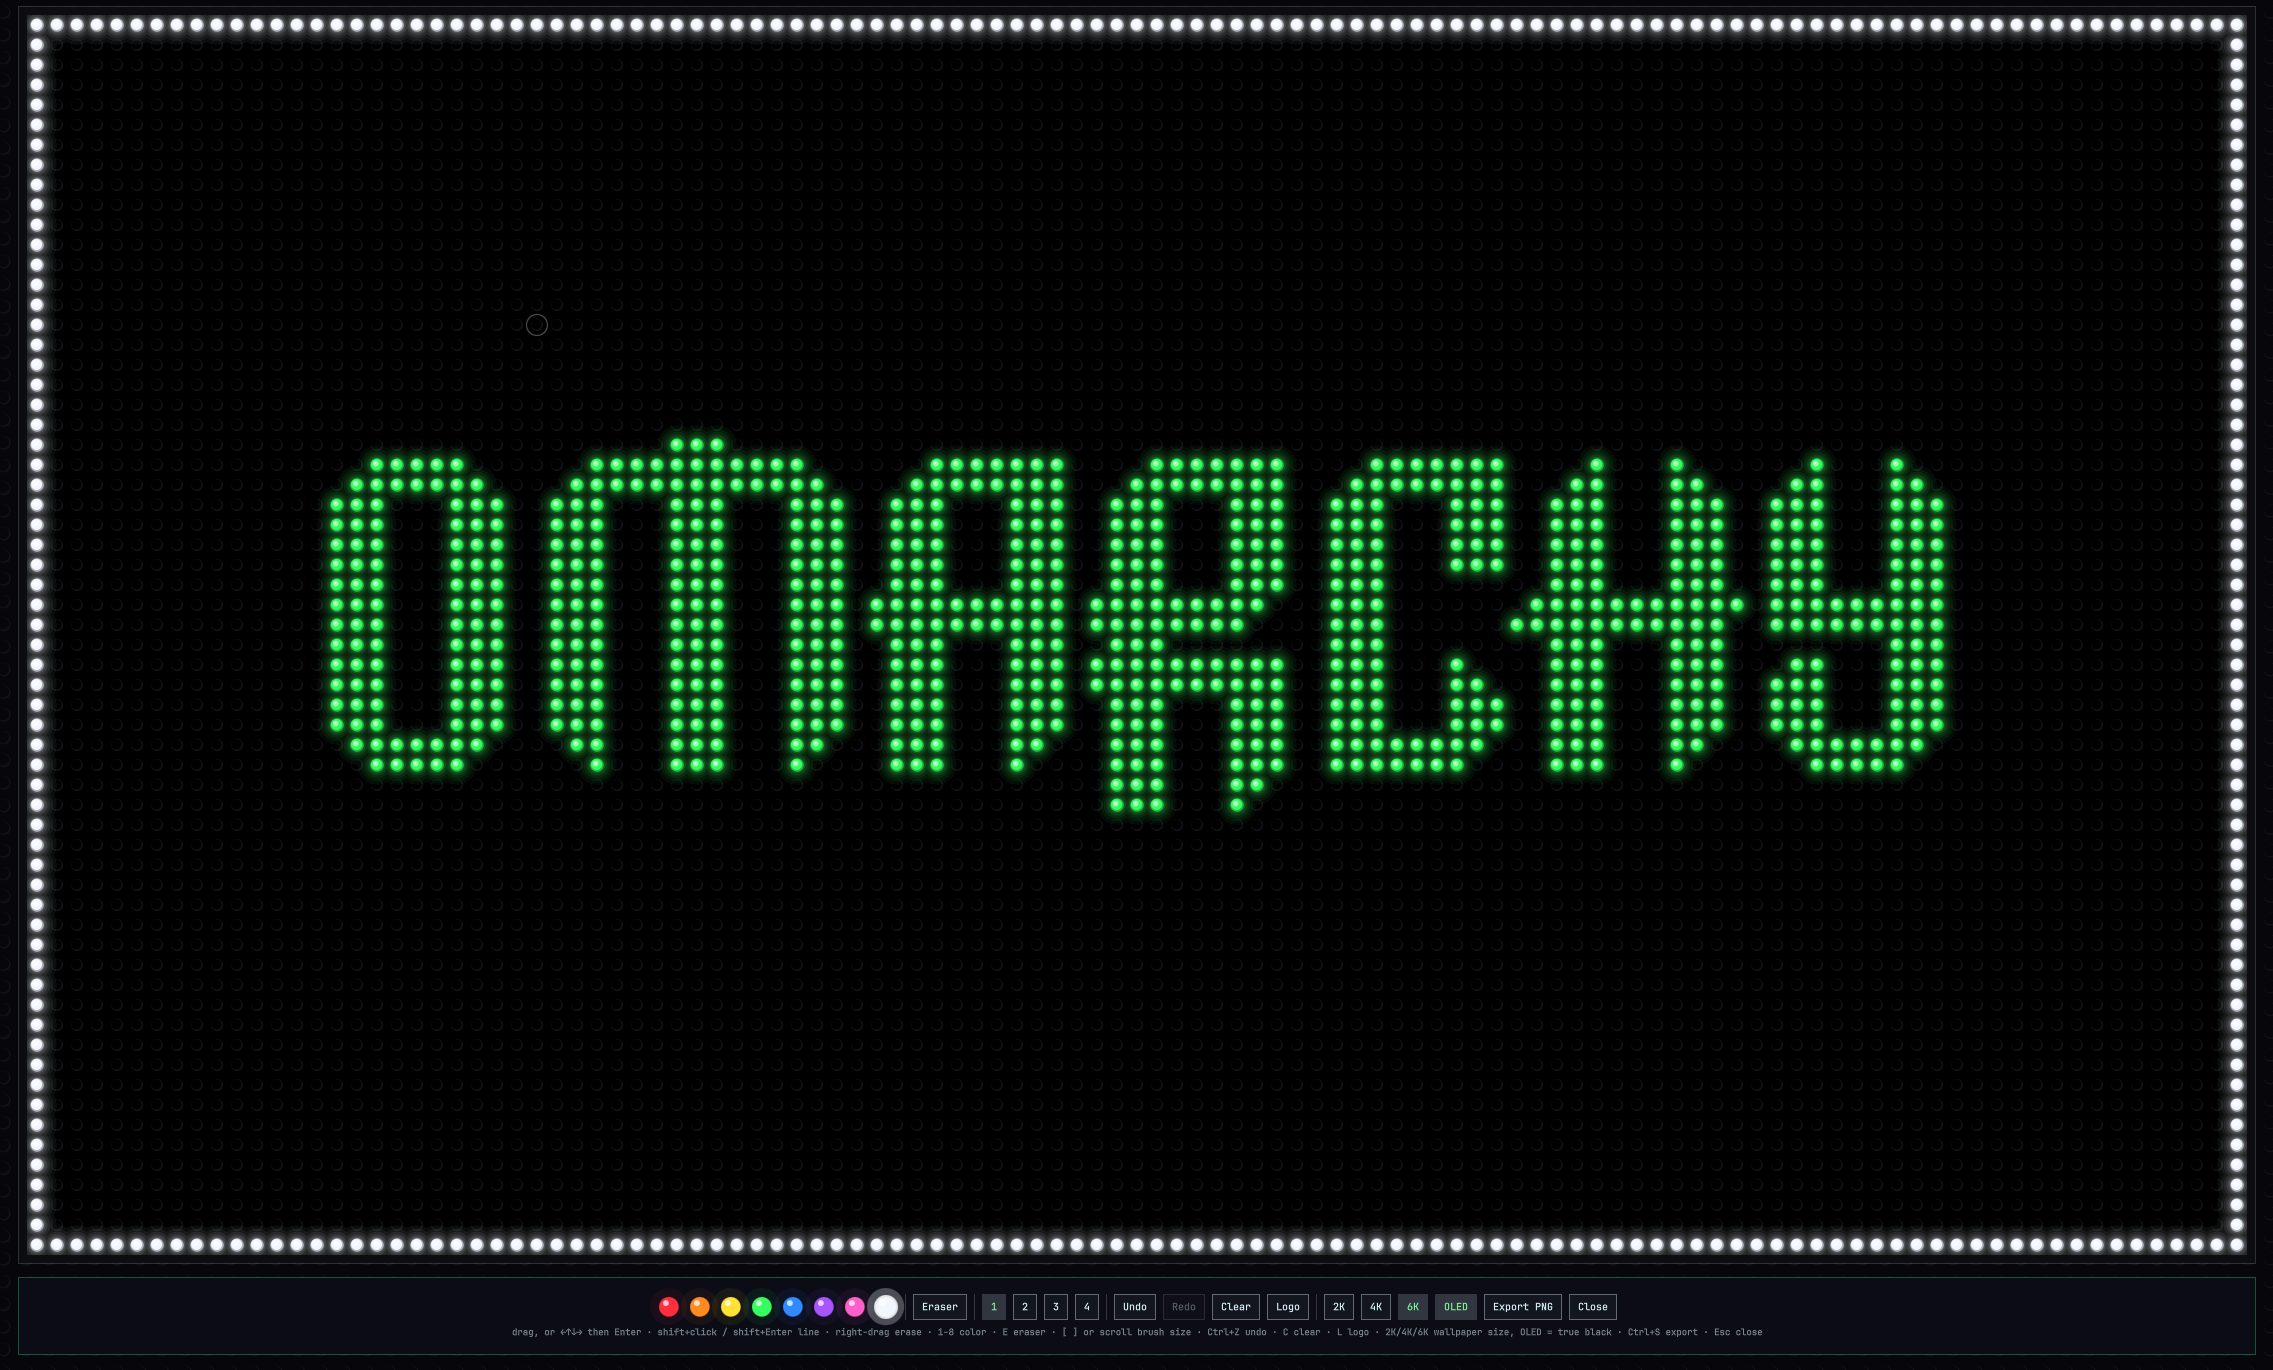
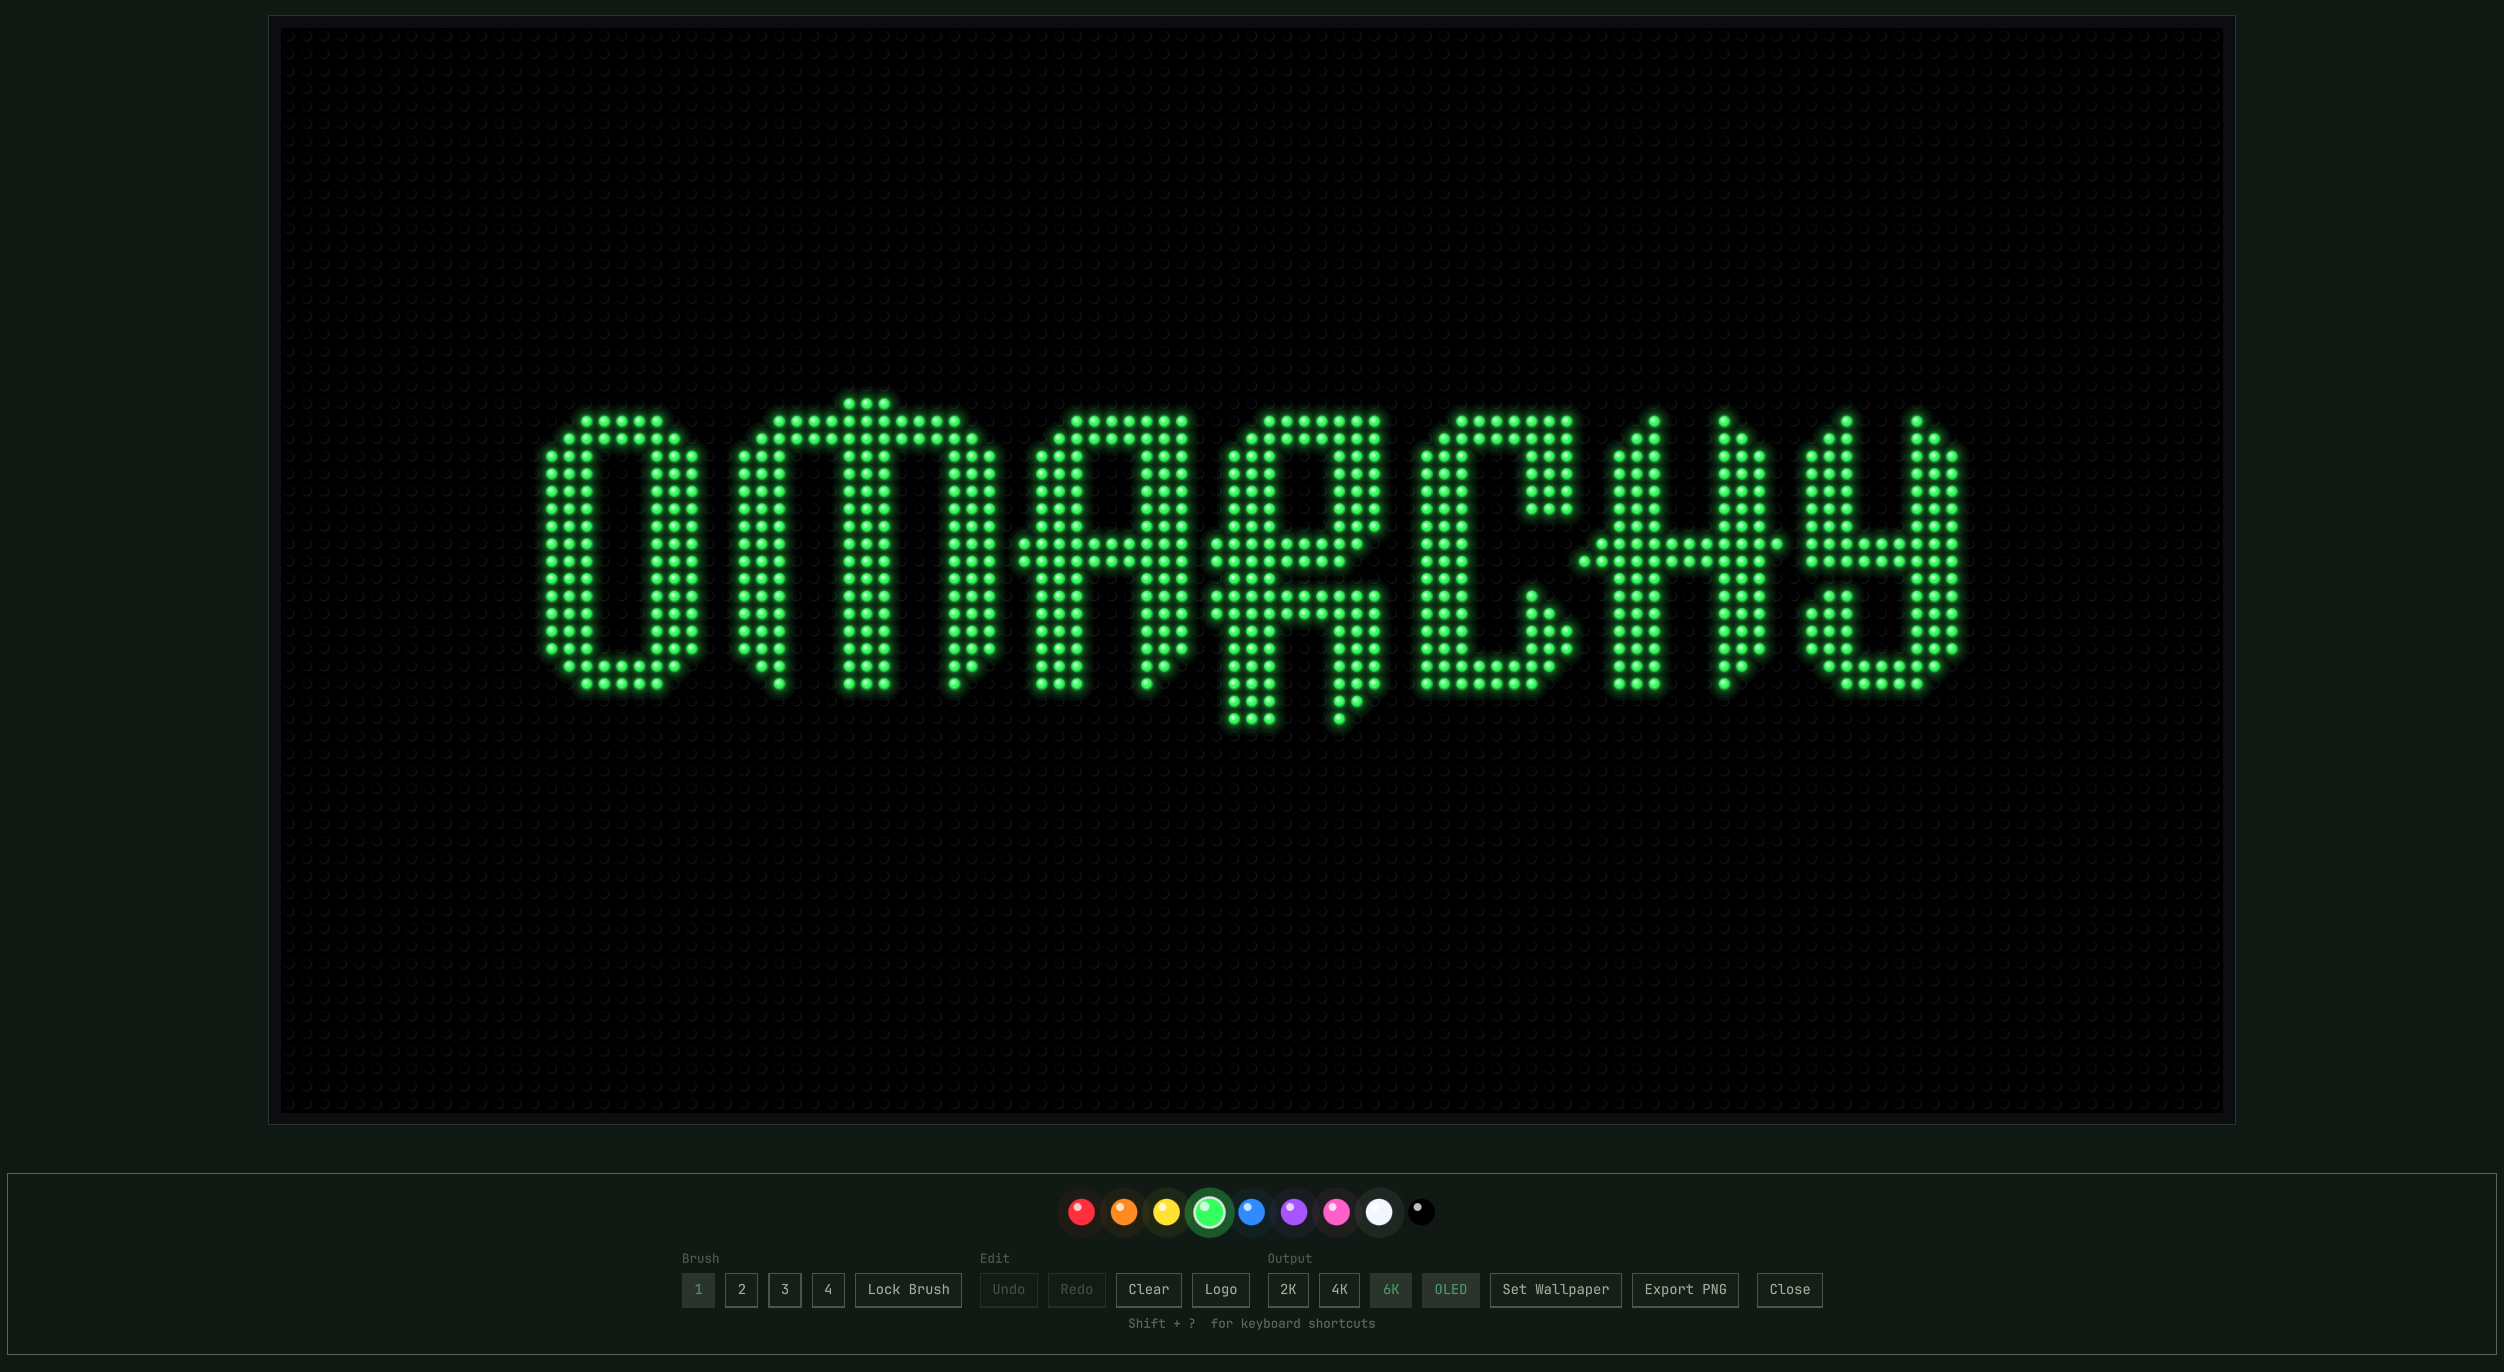
Describe the toolbar the plugin actually has now
#2, #3 and #4 rebuilt the toolbar and the README never caught up. It
still described a single hint line that no longer exists, a Lock Brush
that released when the pointer left the board, and a board painted into
one Canvas.

- A toolbar section: the palette on its own row with the eraser as a
  ninth swatch, the captioned Brush / Edit / Output groups that wrap
  rather than elide, and the status line that replaced the hint line.
- Lock Brush gets its own heading, since "stays on until you turn it
  off, and crossing the board paints on the way" is a trade worth
  stating rather than a keybind.
- Ctrl+W, Shift+? and the panel-before-plugin behaviour of Esc were
  missing from the key table.
- The wallpaper name is a timestamp *and* a counter; the reason the
  counter exists is the same reason the timestamp does.
- The board is a 6x4 grid of Canvas tiles and a touched tile repaints
  whole. The ~7ms/~1ms repaint figures are gone rather than restated:
  they measured a single canvas repainting a dirty rectangle, which is
  neither of the things the code now does.

preview.png is re-shot on the current build, so the sections, the
eraser swatch, Lock Brush and Set Wallpaper are all visible in it.

Claude-Session: https://claude.ai/code/session_01U1C7uPE65mwrzDL9zo8af8

diff --git a/README.md b/README.md
@@ -79,19 +79,52 @@ where the brush will land, whichever one you last touched.
 | `Enter` | place pegs at the cursor — the same as a left click |
 | shift + click, shift + `Enter` | straight line from the end of the last stroke |
 | scroll | brush size |
-| `K` | lock the brush: while on, moving the pointer over the board lays the current brush or eraser down — no click, no wheel. The cursor ring fills in and the toolbar's status line says so. One continuous sweep is a single undoable stroke, ended by resting the pointer; Undo, Clear and Logo close the sweep first, so it stays one action. The lock stays on until `K` or the **Lock Brush** button turns it off, including while the pointer is off the board — so a hand that wanders off the pegboard and back keeps painting. The cost is that crossing the board to reach a toolbar control paints on the way; Undo takes it back |
+| `K`, **Lock Brush** | lock the brush: while on, moving the pointer over the board lays the current brush or eraser down — no click, no wheel. The cursor ring fills in and the toolbar's status line says so. One continuous sweep is a single undoable stroke, ended by resting the pointer or leaving the board; Undo, Clear and Logo close the sweep first, so it stays one action. See [Lock Brush](#lock-brush) |
 | `1`–`8` | pick a peg color |
-| `E` | eraser |
+| `E`, `0` | eraser — or the black swatch at the end of the palette |
 | `[` `]` | brush size |
 | `Ctrl+Z` / `Ctrl+Shift+Z` | undo / redo (60 strokes deep) |
 | `C` | clear the board |
 | `L` | put the OMARCHY logo back |
 | `Ctrl+S` | export a PNG to `~/Pictures` |
-| `Esc` | close |
+| `Ctrl+W` | set the desktop wallpaper |
+| `Shift + ?` | open the keyboard reference over the board; the same keys, `Esc`, or a click close it |
+| `Esc` | close — the reference panel first, if it's open, then the plugin |
 
 The board autosaves to `~/.local/state/omarchy/glow-studio.json` a moment after
 every stroke, so it comes back exactly as you left it. Delete that file to
 start over from the logo.
+
+## The toolbar
+
+The palette sits on its own centred row: eight peg colors and, at the end of
+them, a black swatch for the eraser. The eraser is a ninth value rather than a
+mode, so picking it is the same gesture as picking a color.
+
+Underneath, the controls are grouped into captioned sections — **Brush**,
+**Edit**, **Output** — which centre while they fit and wrap onto their own rows
+once the window is too narrow to hold them side by side. Nothing is dropped at
+laptop or tiled width.
+
+The line under the buttons is the status line: `Shift + ?  for keyboard
+shortcuts` normally, `brush locked — Lock Brush or K to release` while the lock
+is on. It reads there rather than on the board, because the board is the
+drawing surface. It replaced a single line carrying every binding, which could
+only ever hold as many of them as the window was wide; the reference panel
+wraps nothing and drops nothing.
+
+### Lock Brush
+
+`Lock Brush`, or `K`, makes the brush paint on motion alone: move the pointer
+over the board and it lays pegs down with nothing held. It's there for
+trackpads, where holding a click through a long drag is tiring, and for anyone
+who hasn't got the click gesture yet.
+
+The lock stays on until the button or `K` turns it off. Leaving the board does
+not release it, so a hand that wanders off the pegboard and back keeps
+painting. The cost is that crossing the board to reach a toolbar control paints
+on the way; `Undo` takes it back, and a mode that switched itself off mid-stroke
+would be the worse of the two.
 
 ## Wallpapers
 
@@ -101,11 +134,15 @@ at whichever size is selected in the toolbar. Your choice is remembered.
 `Set Wallpaper` renders the board the same way, at the same selected size, and
 hands the file to `omarchy theme bg set` — Omarchy's own background command —
 so the desktop changes immediately and the choice survives a reboot. The
-render lands in `~/.local/state/omarchy/` under a fresh timestamped name each
-time, because the background system records a symlink to the file it is given
-and ignores a path it is already showing: overwriting one fixed file in place
-would leave the desktop on the previous render. Each successful apply deletes
-the renders before it, so one file is kept — the one the symlink points at.
+render lands in `~/.local/state/omarchy/` under a fresh name each time — a
+timestamp plus a counter, since a 2K render can finish inside the same second —
+because the background system records a symlink to the file it is given and
+ignores a path it is already showing: overwriting one fixed file in place would
+leave the desktop on the previous render. Each successful apply deletes the
+renders before it, so one file is kept — the one the symlink points at.
+
+`Ctrl+W` does the same thing from the keyboard, the way `Ctrl+S` does for the
+export.
 
 | | |
 |---|---|
@@ -131,12 +168,18 @@ The grid is a fixed **111 × 62** regardless of monitor — a saved board reopen
 identically on a different display, and the wordmark is guaranteed to fit. Cell
 size is whatever makes that grid fill the screen.
 
-All 6,882 holes are painted into a single `Canvas`. Thousands of QML
-`Rectangle`s would be hopeless, and the board is static between edits, so the
-canvas repaints only the rectangle a stroke touched (plus a margin for the
-glow that bleeds out of it). Measured on this machine: a full repaint is
-**~7ms**, a stroke's incremental repaint is **~1ms**, and an untouched board
-paints **zero** frames — no idle GPU cost while it sits open.
+All 6,882 holes are painted into `Canvas` tiles — a **6 × 4** grid of them
+rather than one canvas the size of the board. Thousands of QML `Rectangle`s
+would be hopeless, and the board is static between edits, so a stroke repaints
+only the tiles it touched: usually one, a twenty-fourth of the board, instead
+of the whole thing.
+
+A touched tile repaints **whole**. `Canvas.markDirty` does not reliably repaint
+the sub-rectangle it is handed — a single stamp could leave a block of flat
+backing with no hole texture sitting over the pegboard until something forced a
+full repaint — and the tiling is where the saving came from in the first place,
+not from sub-tile rectangles. An untouched board paints **zero** frames, so
+there's no idle GPU cost while it sits open.
 
 The glow is stacked translucent discs rather than a per-peg radial gradient,
 which lets every peg of a given color batch into one fill. Overlapping halos
